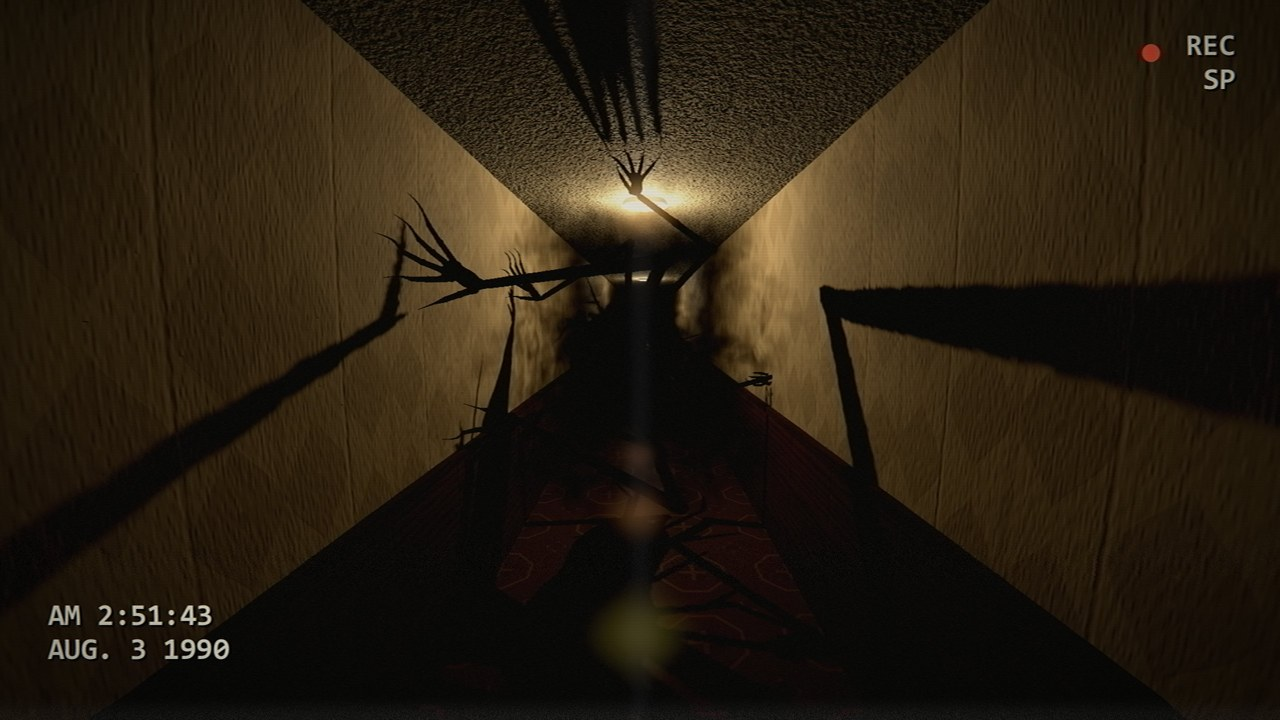
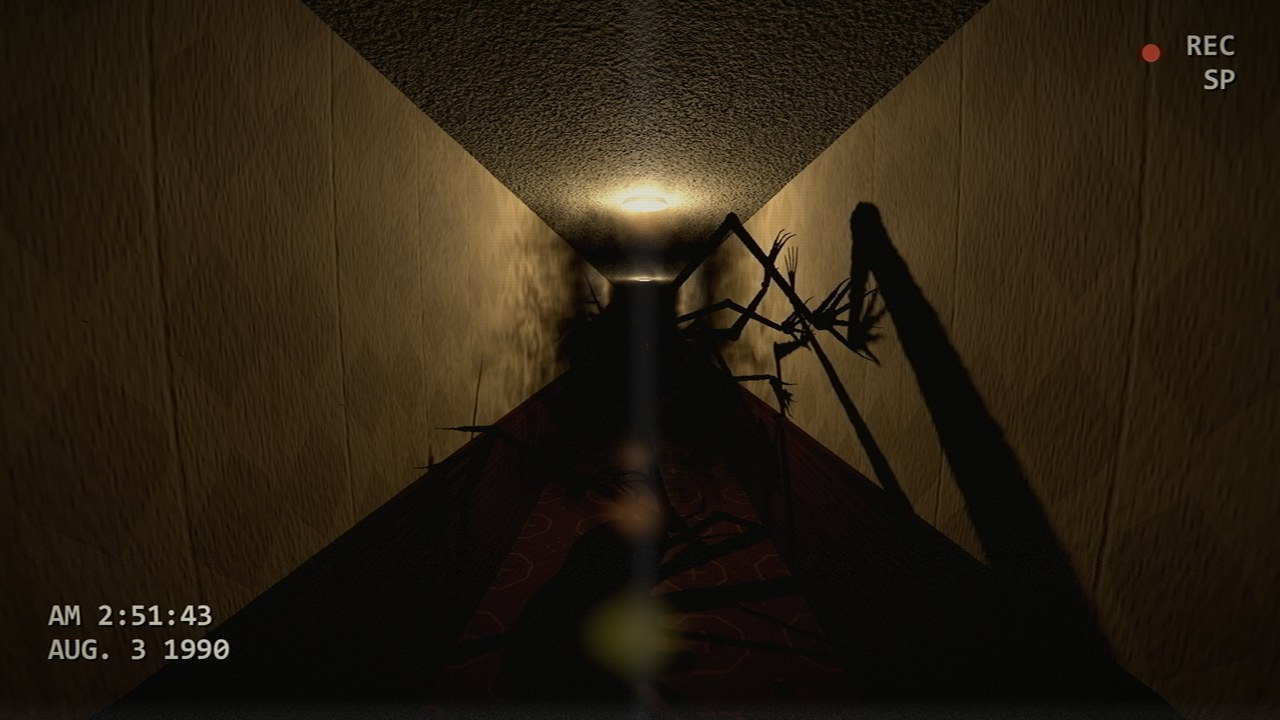
The Lurker's hands lie on what they hold, and its arms stay out of walls
Seen from the side, the claws did touch, but only with the wrist a
quarter of a metre off the wall and the fingers bent back to reach it:
in the hotel's grazing light the hand looked to float far from its
shadow. Now the palm lies close over the hold (the wrist a fifth of the
hand's length off it), the fingers spread out along it and only their
ends bend in, each until its claw is half a centimetre into the
surface, as the picture's hands are on the walls. A finger's bend is
counted from the finger held straight, so it never has to bend back.

The elbows no longer go through anything: where the knees want an
elbow would put the arm through a wall, the ceiling or the floor, it
turns round the line from the shoulder to the hand to the first way
that is clear, with room for its knob. A hand crossing from one wall to
the one opposite no longer lifts into the wall it leaves: every step
draws the hand in towards the shoulder half way. The point it looks for
holds from is never past a wall, and running, the hands stop taking
turns. The test corridor flees at 1.8 m/s.

tools/capture/lurker_hand_check.gd looks at each held hand from the
side of a wall; the corridor check also counts elbows with no way clear.

diff --git a/docs/LURKER.md b/docs/LURKER.md
@@ -56,7 +56,7 @@ Se resuelven fotograma a fotograma: cada una es una función del tiempo que dice
 
 `game/enemies/lurker/lurker.tscn` es la criatura que se ve. Quien la mueva solo tiene que poner su transformación: su +Y es la superficie a la que se agarra (el suelo, una pared, el techo) y su +Z hacia dónde va. Es solo presentación, como `locust_visual.gd`: no tiene colisión ni cambia lo que nadie percibe.
 
-- **Trepa como una araña** (`lurker_limbs.gd`, un `SkeletonModifier3D` que corre después del reproductor de animaciones, así que el clip sigue moviendo cuerpo, cabeza y mandíbula). Cada mano se queda **plantada en el mundo** y solo se mueve en un paso, como los pies de The Locust; pero busca su apoyo con once rayos en abanico alrededor de su hombro, de debajo del cuerpo a encima de él, y se queda con el que cae más cerca de dos tercios de su alcance; con `cling` alto prefiere la pared y el techo al suelo, y así en un sitio estrecho se sostiene en el aire, agarrada a las paredes. Da el paso cuando el brazo se estira de más o cuando hay un apoyo mucho mejor; las siete se turnan en dos juegos, de tres y de cuatro, **a paso lento**, como una viuda negra: cada paso dura unos 0,7 s andando (0,45 s a su máxima velocidad), la mano sube hasta un 22 % del largo del brazo, y **los brazos de delante buscan su apoyo muy por delante y los de atrás muy por detrás**, y cada mano se queda agarrada hasta quedar bien atrás antes de dar el siguiente paso, con los codos empujados hacia arriba como rodillas. **Cada brazo tiene su costumbre** (`HABIT`): unos prefieren subir al techo y a lo alto de las paredes, otros bajar al suelo, y cada uno tiene su propio ritmo, así que nunca van a la par. Ningún brazo pasa del 88 % de su largo, así que el codo siempre se marca. **Las garras se clavan sin atravesar**: la muñeca va levantada y la mano inclinada hacia el apoyo, y cada dedo se dobla justo lo necesario para que la punta de su garra toque la superficie (medio centímetro dentro, nunca más); antes los dedos tenían una curva fija y la mayoría atravesaba la pared, como una mano apoyada. Se cierran mientras la mano viaja. **Mientras está agarrada, la mano no se mueve**: se queda como aterrizó, con las garras donde se clavaron, y solo el brazo sigue al cuerpo (antes giraba con el hombro y las garras resbalaban por la pared). Solo elige apoyos a los que la muñeca llega de verdad, contando con dónde estará el hombro cuando aterrice, y da el paso antes de que el brazo no dé más de sí: con un apoyo fuera de alcance la mano se quedaba colgando en el aire, lejos de su sombra. Una mano recién agarrada aguanta al menos 0,6 s y solo cambia por un apoyo mucho mejor, así que no salta de un sitio a otro nada más llegar; si no encuentra nada, se recoge junto al cuerpo (antes se recogía hacia abajo, a través del suelo o de la pared). `tools/capture/lurker_test_check.gd` lo mide mientras anda: pasos, pasos dados nada más aterrizar, cuánto le falta a la peor muñeca para llegar a su apoyo y cuánto resbala la peor garra. **La cabeza va delante:** el cuello se adelanta hacia lo que mira y la cabeza y los ojos giran hacia ello (`look_point`; por defecto, la cámara que la está viendo), y la cabeza se endereza aunque el cuerpo cuelgue de una pared o del techo: de lado, la cara no se leía. **La cabeza gira suave**: va siguiendo hacia donde quiere mirar, sin saltos cuando el cuerpo cambia de orientación (antes se recolocaba de golpe). Emite `footfall` en cada apoyo, para los pasos que suenen.
+- **Trepa como una araña** (`lurker_limbs.gd`, un `SkeletonModifier3D` que corre después del reproductor de animaciones, así que el clip sigue moviendo cuerpo, cabeza y mandíbula). Cada mano se queda **plantada en el mundo** y solo se mueve en un paso, como los pies de The Locust; pero busca su apoyo con once rayos en abanico alrededor de su hombro, de debajo del cuerpo a encima de él, y se queda con el que cae más cerca de dos tercios de su alcance; con `cling` alto prefiere la pared y el techo al suelo, y así en un sitio estrecho se sostiene en el aire, agarrada a las paredes. Da el paso cuando el brazo se estira de más o cuando hay un apoyo mucho mejor; las siete se turnan en dos juegos, de tres y de cuatro, **a paso lento**, como una viuda negra: cada paso dura unos 0,7 s andando (0,45 s a su máxima velocidad), la mano sube hasta un 22 % del largo del brazo, y **los brazos de delante buscan su apoyo muy por delante y los de atrás muy por detrás**, y cada mano se queda agarrada hasta quedar bien atrás antes de dar el siguiente paso, con los codos empujados hacia arriba como rodillas. **Cada brazo tiene su costumbre** (`HABIT`): unos prefieren subir al techo y a lo alto de las paredes, otros bajar al suelo, y cada uno tiene su propio ritmo, así que nunca van a la par. Ningún brazo pasa del 88 % de su largo, así que el codo siempre se marca. **Las garras se clavan sin atravesar**, como en la imagen: la palma muy cerca del apoyo (la muñeca a un quinto del largo de la mano), los dedos extendidos sobre él y solo sus extremos doblados hacia dentro, cada uno lo justo para que la punta de su garra quede medio centímetro dentro de la superficie. Antes los dedos tenían una curva fija y la mayoría atravesaba la pared; después, la muñeca se quedó a 25-30 cm con los dedos colgando hacia la pared, y con la luz rasante la mano se veía flotando, lejos de su sombra. Se cierran mientras la mano viaja. **Mientras está agarrada, la mano no se mueve**: se queda como aterrizó, con las garras donde se clavaron, y solo el brazo sigue al cuerpo (antes giraba con el hombro y las garras resbalaban por la pared). Solo elige apoyos a los que la muñeca llega de verdad, contando con dónde estará el hombro cuando aterrice, y da el paso antes de que el brazo no dé más de sí: con un apoyo fuera de alcance la mano se quedaba colgando en el aire, lejos de su sombra. Una mano recién agarrada aguanta al menos 0,6 s y solo cambia por un apoyo mucho mejor, así que no salta de un sitio a otro nada más llegar; si no encuentra nada, se recoge junto al cuerpo (antes se recogía hacia abajo, a través del suelo o de la pared). Al viajar de un apoyo a otro, la mano se recoge hacia el hombro a mitad de camino y sale hacia el nuevo, así que no atraviesa la superficie que deja ni siquiera cruzando de una pared a la de enfrente (antes se levantaba hacia dentro de la pared). **Los codos no atraviesan nada**: el codo va donde lo piden las rodillas, salvo que eso meta el brazo en una pared, el techo o el suelo; entonces gira alrededor de la línea del hombro a la mano hasta el primer hueco libre. `tools/capture/lurker_test_check.gd` lo mide mientras anda: pasos, pasos dados nada más aterrizar, cuánto le falta a la peor muñeca para llegar a su apoyo, cuánto resbala la peor garra y cuántas veces un codo no encuentra hueco (andando y quieta, todo a cero; al huir, a 1,8 m/s, algunas manos todavía van con prisa). `tools/capture/lurker_hand_check.gd` la pone junto a una pared, sin oscuridad, y mira de lado cada mano agarrada (`manos_sobre_la_pared.png`). **La cabeza va delante:** el cuello se adelanta hacia lo que mira y la cabeza y los ojos giran hacia ello (`look_point`; por defecto, la cámara que la está viendo), y la cabeza se endereza aunque el cuerpo cuelgue de una pared o del techo: de lado, la cara no se leía. **La cabeza gira suave**: va siguiendo hacia donde quiere mirar, sin saltos cuando el cuerpo cambia de orientación (antes se recolocaba de golpe). Emite `footfall` en cada apoyo, para los pasos que suenen.
 - **La oscuridad** (`lurker_darkness.gdshader`): tinta en el agua, no una bola difusa. Se integra a lo largo de cada rayo de vista dentro de una esfera, cortada por lo primero que el rayo toca, y su forma es la distancia a la línea del cuerpo (del pecho al final del abdomen) deformada por ruido en un espacio que también se remueve, para que los bultos se enrosquen en vez de deslizarse. Donde es densa tiene el borde roto y nítido, y de él se desprenden jirones; deja un hueco donde está la cara. Dos capas: **la tinta**, negra del todo, hasta unos 24 cm de esa línea (con el borde roto llega a unos 38), y **un vapor** en harapos y agujeros algo más allá. Antes hubo una luz negativa (rompía los filtros de la cámara en motas de colores) y una niebla esférica (el autor la vio como un halo gaussiano).
 - **Capa de render 3**, propia de la criatura (la 2 es el cuerpo del jugador; de la 5 a la 20, las habitaciones en la calidad más baja).
 - La importación sustituye todos los materiales por los de la carpeta: `lurker_body.tres` (negro, sin sombreado), `lurker_face.tres` (la textura de la cara, mate) y `lurker_matte.tres` (el color por vértice, sin ningún brillo) para los ojos y los dientes. Godot dejaba sin color por vértice algunos materiales y no lee el especular del GLB: con el que pone por defecto, las garras (que tenían material propio) brillaban como barras blancas bajo la linterna.
